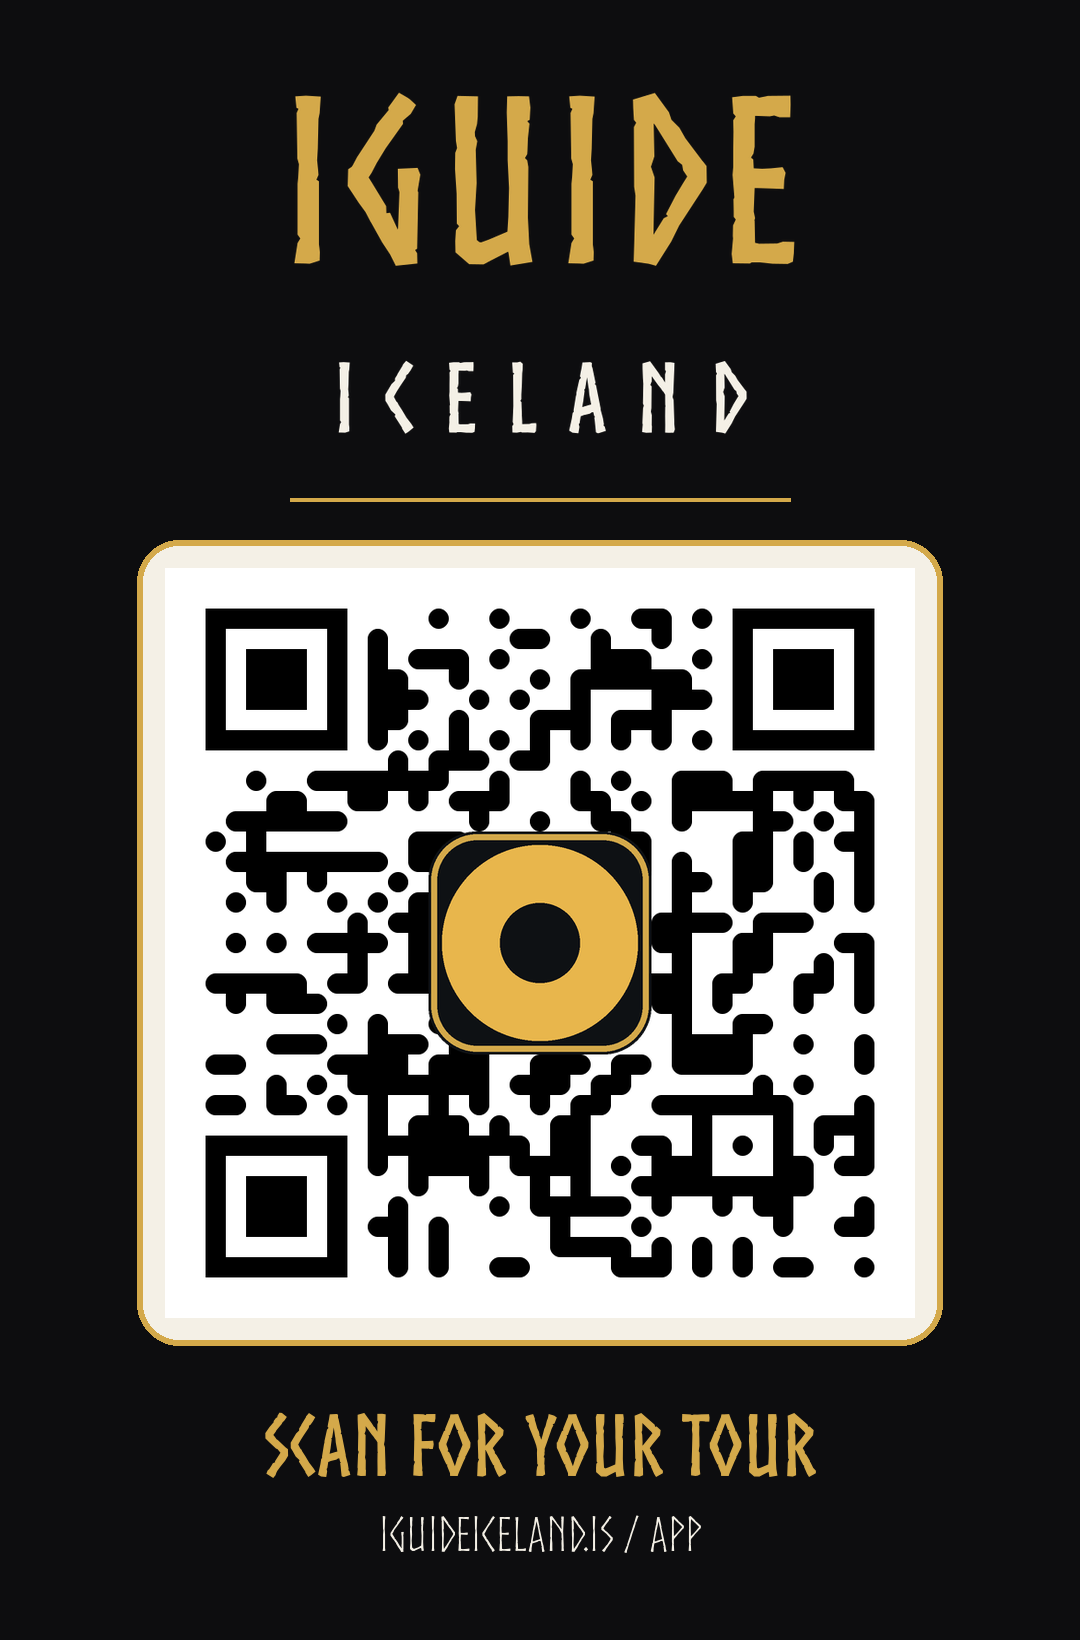
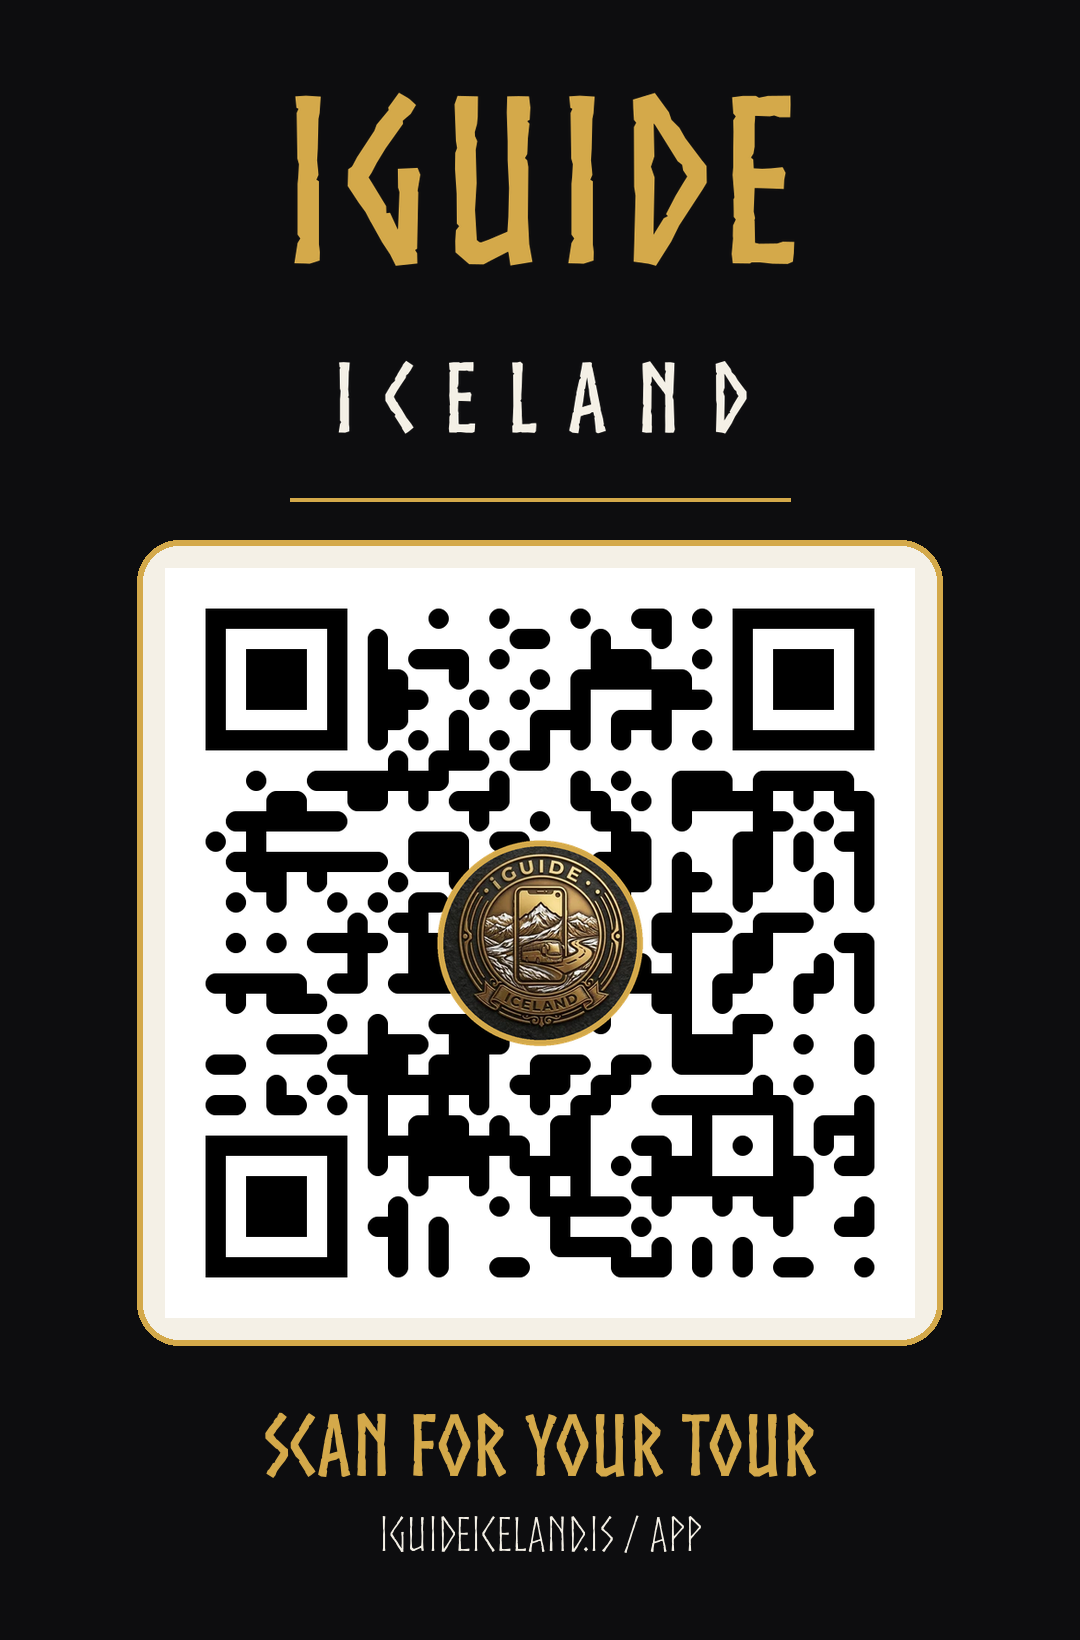
guest QR: crest medallion centre tile; crest copied to images/

Changed region(s): [[0.3972, 0.4976, 0.6111, 0.653]]

diff --git a/HANDOVER.md b/HANDOVER.md
@@ -4,7 +4,7 @@
 
 **Changelog**
 - 25 Aug 2026 — **1.0 resynced from the corrected Craft manuscript.** Re-exported the Craft doc and re-ran `build-script.py`; 6 sections / 35 blocks / block ids all unchanged. Five delivery cues were wrong on the bus and are now right — **Hekla** right at **1 o'clock** (was 11, and its weather pivot and pronunciation gloss carried the old clock too), **Rauðhólar left at 9** (was right at 3), **Ölfusárbrú** "we're crossing it now — look down" (was right at 3), **Kjalarnes** left at 9, **ten kilometres off** (was "At Kjalarnes"), **Esja** "left and ahead" (was ahead at 12). Note for the next chat: this `build-script.py` regenerates everything from Craft and **does** import `cue` from each block's italic line, so cues need no separate sync — the older parser that treated `cue` as a protected route fact is gone. Facts fixed: Kjarval's **1968 bequest** replaces "roughly 5,000 works", Kerið is **one of a dozen or so Grímsnes eruptions** and its duplicated scoria/hematite bullets are merged, Hveragerði **~3,350 (3,344 at the start of 2026)** not 2,982, Ölfusá **400 m³/s** not 423, the cave family is **Iceland's** last not Europe's, and it's the **Hreppar block**, not the Hreppar Fault. `sw.js` → `gcd29-v2`. **`golden-circle-direct.html` no longer contains any tour script** — since the multi-tour split, `index.html` loads `script-<id>.js` at runtime, so the single file and the backup gist are the shell only, and the gist is no longer a working offline copy of the script. **[Corrected later the same day — see the 25 Aug one-file entry below: the single file now bundles all three tours and all twenty language packs, and the gist is a working offline copy again. It is also now named `iguide-iceland.html`.]**
-- 31 Aug 2026 — **Clean URLs replace the random slugs** (Ritchie's call — QRs do the remembering, and he wants typeable): **`iguideiceland.is/app`** and **`/iguide`** → guest app, **`/editor`** → back office. Tradeoff on record: /app is guessable so the guest app is public-but-unlisted (still noindex, still linked nowhere); the editor doesn't care — the PIN is the lock. Random-slug stubs removed from both site folders. **Guest QR is now a themed card** (`qr/guest-app.png`, 1080×1640): Norse stacked logo, parchment QR panel w/ gold border, rounded modules, app's gold-ring icon centre tile (EC level H), 'SCAN FOR YOUR TOUR' + url line — decode-verified at full and ⅓ size. `qr/back-office.png` plain, → /editor. All three URLs verified live 200.
+- 31 Aug 2026 — **Clean URLs replace the random slugs** (Ritchie's call — QRs do the remembering, and he wants typeable): **`iguideiceland.is/app`** and **`/iguide`** → guest app, **`/editor`** → back office. Tradeoff on record: /app is guessable so the guest app is public-but-unlisted (still noindex, still linked nowhere); the editor doesn't care — the PIN is the lock. Random-slug stubs removed from both site folders. **Guest QR is now a themed card** (`qr/guest-app.png`, 1080×1640): Norse stacked logo, parchment QR panel w/ gold border, rounded modules, crest medallion centre tile (logo-crest.webp, copied into images/; EC level H), 'SCAN FOR YOUR TOUR' + url line — decode-verified at full and ⅓ size. `qr/back-office.png` plain, → /editor. All three URLs verified live 200.
 - 31 Aug 2026 — **Secret pages moved to the REAL website: www.iguideiceland.is** — `/guide-bb130696/` → guest app, `/editor-e327afaa/` → back office (PIN unchanged); noindex/nofollow redirect stubs, linked nowhere, verified live 200. The 30 Aug GitHub-Pages slugs are dead (stubs removed from the iphoneiceland.github.io repo — git history holds them). **How the domain actually works (hard-won):** www.iguideiceland.is is served by Cloudflare Worker `young-forest-b15f` (source `~/Documents/iGuide-deploy`, assets `~/Documents/iGuide-UPLOAD-THIS`, the Bluelane /route system in front) — NOT by worker `i-uide--celand--ite` (deployed from `~/Documents/iGuide-Iceland-Site`, which the site HANDOFF names source of truth but which is no longer bound to the domain), and NOT GitHub Pages. Site edits must land in BOTH iGuide-Iceland-Site (source of truth) and iGuide-UPLOAD-THIS (deployed assets), then `npx wrangler deploy` from iGuide-deploy. **Gotcha:** the zone caches 404s and ignores query strings — a URL requested before it exists stays 404 after deploy; burned two slug generations (ef982235/910c98e1, 292a55a1/a8e7e92a) learning this. Never test a secret URL on the domain before deploying it. Canonical QRs `qr/guest-app.png`/`qr/back-office.png` re-pointed (decode-verified). **Flag:** worker `little-limit-8eeb` appeared tonight (created 22:20 UTC, serves 'Open /login') — another chat's work, untouched.
 - 30 Aug 2026 — **Secret entry pages on the website** (repo iphoneiceland.github.io): `/guide-ef982235/` → guest app, `/editor-910c98e1/` → back office (PIN gate unchanged). Both are noindex/nofollow instant redirects, linked from nowhere; root `robots.txt` added (disallows `/golden-circle-direct/` and the `/guide-`/`/editor-` prefixes — full slugs deliberately NOT listed, robots files are public). Note: the site previously had NO robots.txt at host root — the one inside golden-circle-direct never applied (robots.txt only counts at domain root). Canonical QRs `qr/guest-app.png` + `qr/back-office.png` regenerated **in place** to point at the secret slugs (decode-verified; old direct-URL QRs recoverable from git history). Both pages verified live 200 with noindex.
 - 30 Aug 2026 — **11.0 Snæfellsnes is LIVE** (`gcd54-v1`), converted from the Solar Eclipse Craft doc (6f02467c…) per Ritchie's Google-Maps route: BSÍ → Borgarnes → Ytri-Tunga → Arnarstapi → Djúpalónssandur → Ólafsvík → Kirkjufell → (Berserkjahraun/Vatnaleið) → BSÍ. `make-11.py` assembled it (verbatim carve, renumber, cue rewrites for the reversed Rif/Djúpalónssandur legs); it now **refuses to run if the output exists** — the .md has hand edits. Dropped: E.30/33/34/35 + eclipse briefing + E.39 finale (all date-locked to 12 Aug); eclipse mentions excised from 11.32 Ólafsvík (two bullets) and 11.36 Vatnaleið (decompression bullet + 🎤 line) — grep for eclipse/totality/corona now returns zero. **Three NEW blocks need Ritchie's Editor pass: 11.15 Ytri-Tunga (seals), 11.34 Kirkjufell, 11.35 Berserkjahraun** — facts sourced only from his research pages. 13 sections, 37 blocks, 37 cues monotonic 1.83→100%, 449.9 km, 6065 pts; verified live headless (blocks render, legs 13, pins 37, zero console errors). **Still owed: the 11.0 doc back into Craft** (file-only right now — one-source-of-truth debt, flag to scripts chat) **and translations** (11.0 adds new strings on top of the 14-language chunk 4–7 backlog). Build scripts now resolve RitchWiki at ~/Documents or ~/mnt (cloud-session mount) automatically.
